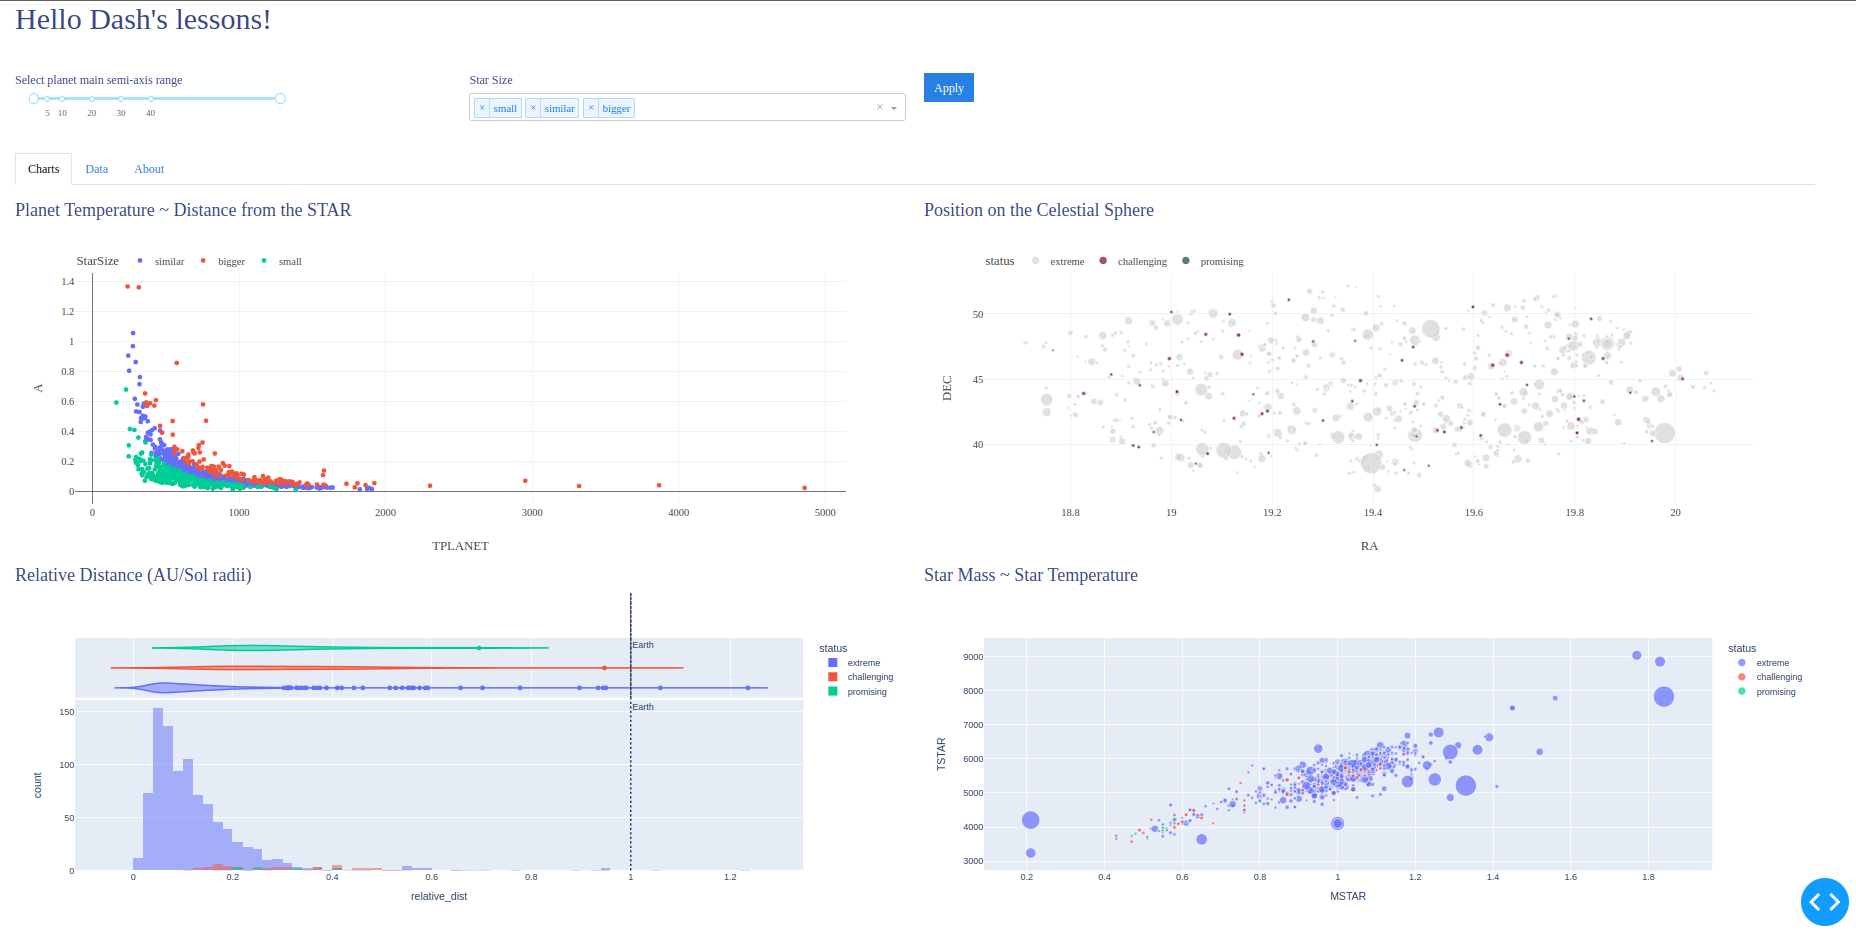
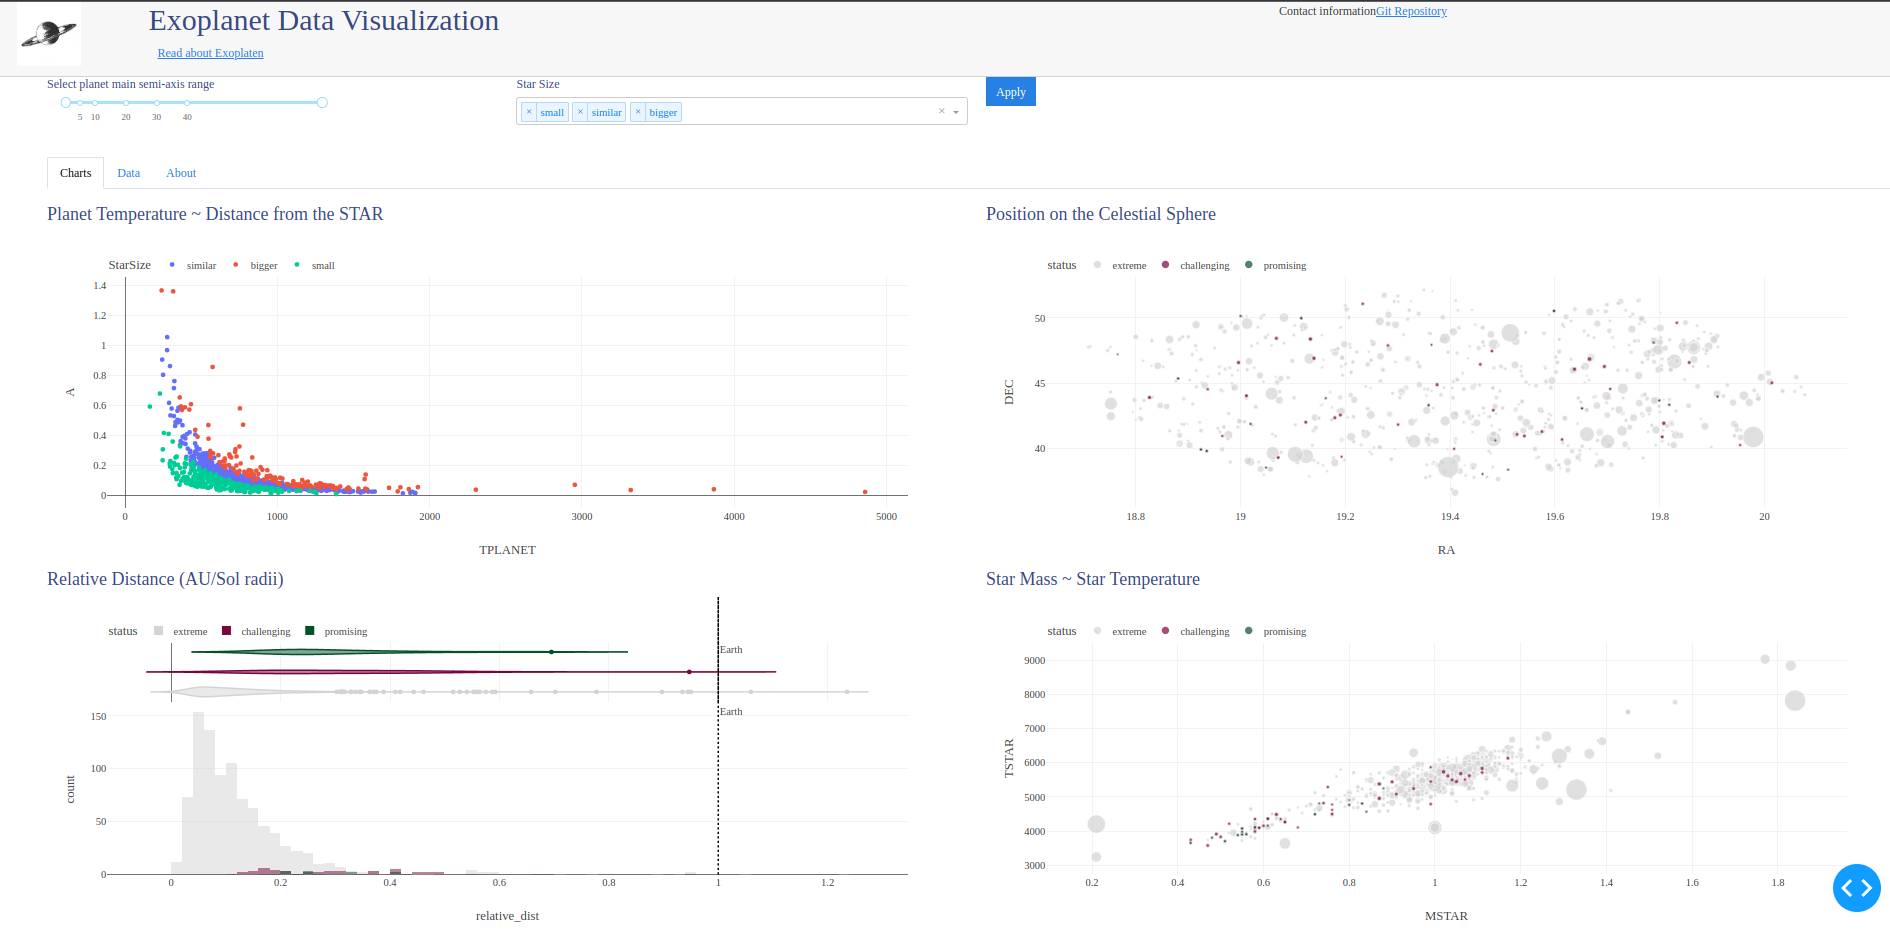
End lesson 14

diff --git a/assets/header.css b/assets/header.css
@@ -1,0 +1,19 @@
+.app-header {
+    height: 100px;
+    background-color: #f7f7f7;
+    font-style: normal;
+    font-weight: normal;
+    border-bottom: thin lightgrey solid;
+}
+
+.app-referral {
+    display: flex;
+    position: static;
+    bottom: 0;
+}
+
+.app-body {
+    margin-left: 80px;
+    margin-right: 80px;
+    margin-top: 20px;
+}

diff --git a/dash_layout/layout.py b/dash_layout/layout.py
@@ -16,32 +16,56 @@ def get_layout(app: Dash, selectors_dict: dict):
 
     app.layout = html.Div([
         # Header ~~~~~~~~~~~~~~~~~~~~~~~~
-        dbc.Row(html.H1("Hello Dash's lessons!"),
-                style={'margin-bottom': 40}),
-        # Filters ~~~~~~~~~~~~~~~~~~~~~~~
-        dbc.Row([
-            dbc.Col([
-                html.H6('Select planet main semi-axis range'),
-                html.Div(rplanet_selector)
+        html.Div([
+            dbc.Row([
+                dbc.Col(
+                    html.Img(src=app.get_asset_url('images/planet.jpg'),
+                             style={'width': '85px', 'marginLeft': '40px'}),
+                    md=1
+                ),
+                dbc.Col([
+                    html.H1("Exoplanet Data Visualization"),
+                    html.A('Read about Exoplaten', href='https://ru.wikipedia.org/wiki/%D0%AD%D0%BA%D0%B7%D0%BE%D0%BF%D0%BB%D0%B0%D0%BD%D0%B5%D1%82%D0%B0',
+                           style={'marginLeft': '12px'})
+                ],
+                    md=7
+                ),
+                dbc.Col(html.Div([
+                    html.P('Contact information'),
+                    html.A('Git Repository', href='https://github.com/bbmatyushin/dash_lessons/tree/lesson_14')
+                ], className='app-referral'),
+                    md=4
+                )
             ],
-                md=2
-            ),
-            dbc.Col([
-                html.H6('Star Size'),
-                html.Div(star_size_selector)
+                className='app-header')  # app-header - класс который создан в header.css
+        ]),
+        html.Div([
+            # Filters ~~~~~~~~~~~~~~~~~~~~~~~
+            dbc.Row([
+                dbc.Col([
+                    html.H6('Select planet main semi-axis range'),
+                    html.Div(rplanet_selector)
+                ],
+                    md=2
+                ),
+                dbc.Col([
+                    html.H6('Star Size'),
+                    html.Div(star_size_selector)
+                ],
+                    width={'size': 3, 'offset': 1}
+                ),
+                dbc.Col(dbc.Button('Apply', id='submit-val', n_clicks=0, className='mr-2'))
             ],
-                width={'size': 3, 'offset': 1}
+                style={'margin-bottom': 40}
             ),
-            dbc.Col(dbc.Button('Apply', id='submit-val', n_clicks=0, className='mr-2'))
+            dbc.Tabs([
+                dbc.Tab(tab_charts, label='Charts'),
+                dbc.Tab(dbc.Row(html.Div(id='raw-data-table')), label='Data'),
+                dbc.Tab(tab_about, label='About')
+            ])
         ],
-            style={'margin-bottom': 40}
+            className='app-body'
         ),
-        dbc.Tabs([
-            dbc.Tab(tab_charts, label='Charts'),
-            dbc.Tab(dbc.Row(html.Div(id='raw-data-table')), label='Data'),
-            dbc.Tab(tab_about, label='About')
-        ])
-    ],
-        style={'margin-left': '80px',
-               'margin-right': '80px'}
-    )
+    ])
+    star_size_selector: dcc.Dropdown = selectors_dict['star_size_selector']
+

diff --git a/README.md b/README.md
@@ -1,14 +1,14 @@
 # Изучение библиотеки python **Dash**
-### Урок #13: шаблоны графиков, шрифты, CSS.
+### Урок #14: редактируем заголовок, еще про CSS
 
-:tv: Видео [Plotly Dash #13][1]
+:tv: Видео [Plotly Dash #14][1]
 
 1. **Documents** [Dash Plotly](https://dash.plotly.com/layout)
 2. **Youtube playlist** [Plotly Dash - 🚀дашборд в Python🐍](https://www.youtube.com/watch?v=HExq59HlFb0&list=PLIAV3wuAPHZouwZlmvqmC-djRsaDKT8rC&index=1)
 
 ---
-####  Урок #13
+####  Урок #14
 ![Lesson's dash](lesson.png)
 
 
-[1]: https://www.youtube.com/watch?v=c5YYz3RgiIc&list=PLIAV3wuAPHZouwZlmvqmC-djRsaDKT8rC&index=13
+[1]: https://www.youtube.com/watch?v=Hp_Mz5DC_uA&list=PLIAV3wuAPHZouwZlmvqmC-djRsaDKT8rC&index=14
